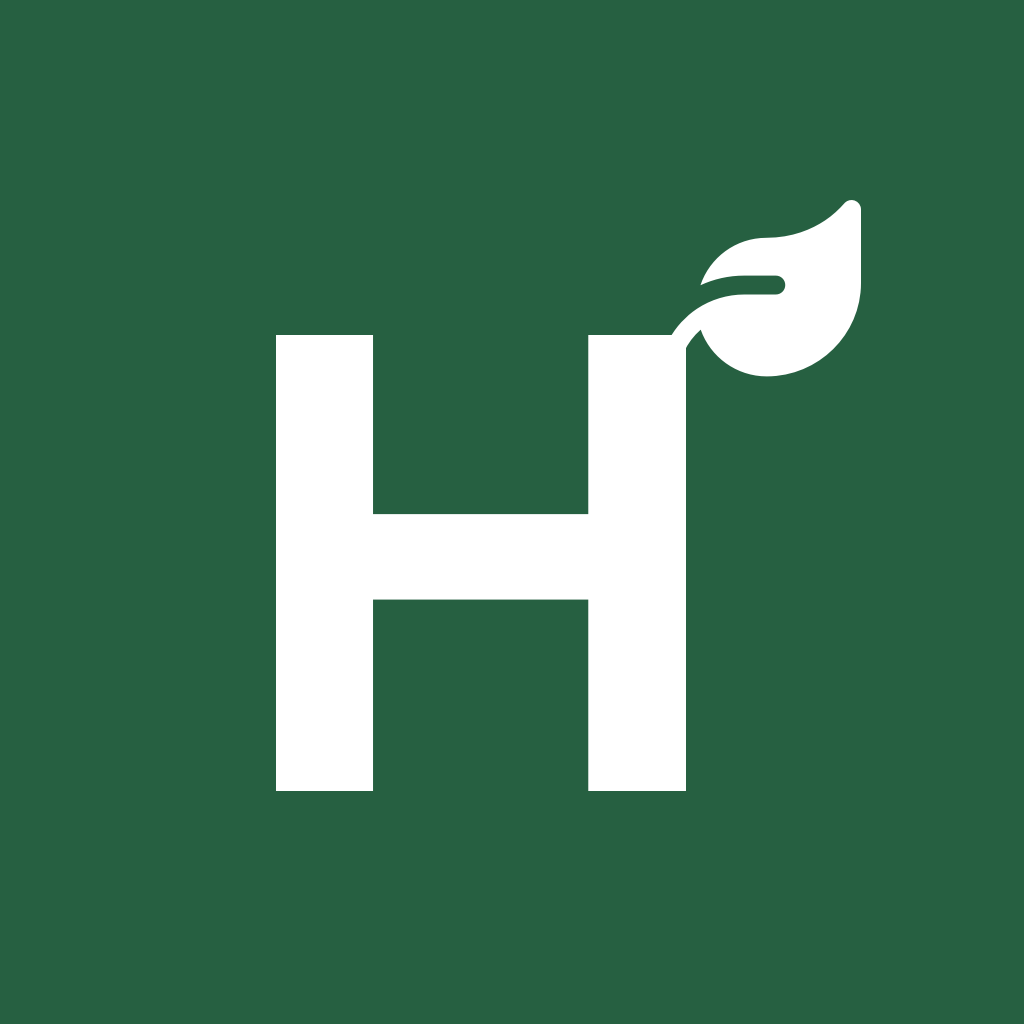
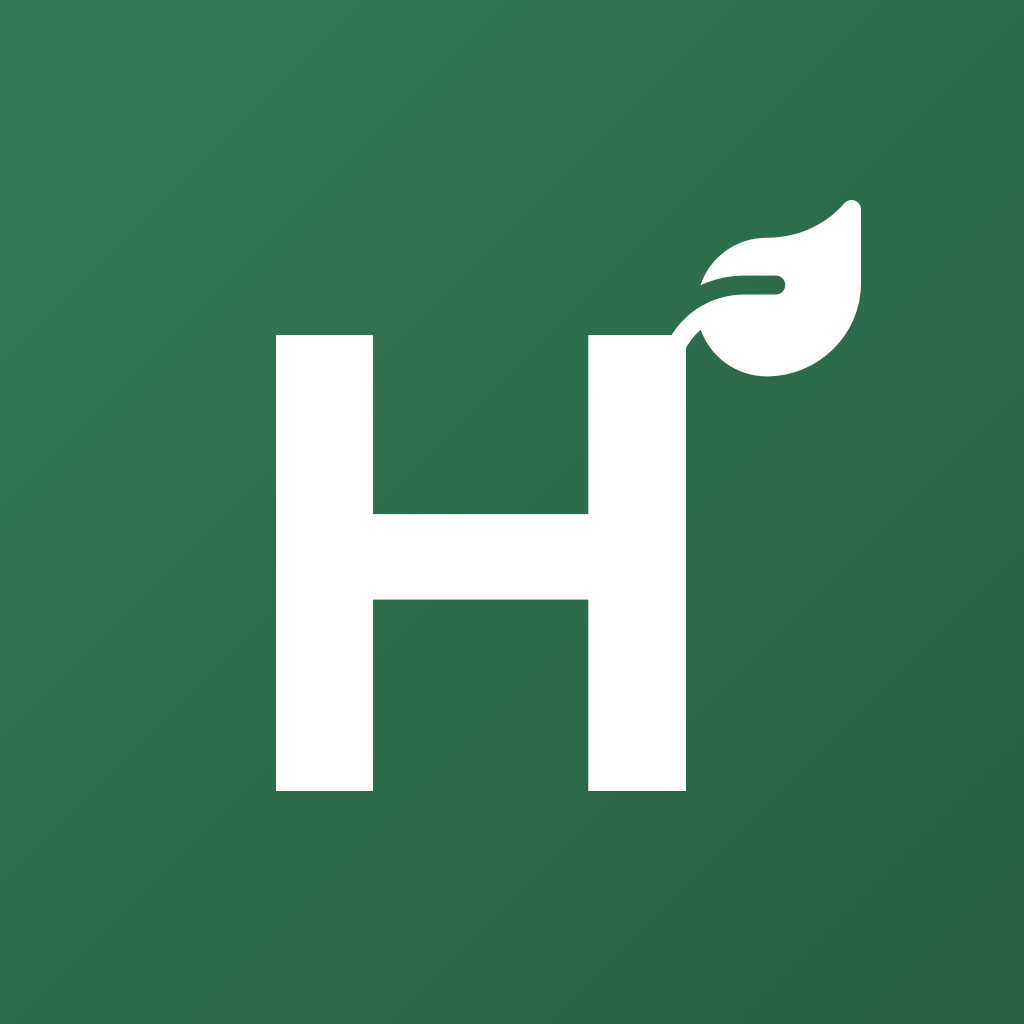
force darkmode and qr code button

Changed region(s): [[0.0, 0.0, 0.125, 0.125]]

diff --git a/app/_layout.tsx b/app/_layout.tsx
@@ -1,6 +1,6 @@
 import { DefaultTheme, ThemeProvider } from "@react-navigation/native";
 import { useFonts } from "expo-font";
-import { Stack } from "expo-router";
+import { router, Stack } from "expo-router";
 import { StatusBar } from "expo-status-bar";
 import "react-native-reanimated";
 
@@ -15,7 +15,9 @@ import "../global.css";
 
 import { Colors } from "@/constants/Colors";
 import { toastConfig } from '@/toast.config';
+import { HeaderButton } from "@react-navigation/elements";
 import React from "react";
+import { QrCodeIcon } from "react-native-heroicons/solid";
 import Toast from 'react-native-toast-message';
 
 Sentry.init({
@@ -52,10 +54,9 @@ function RootLayoutNav() {
         screenOptions={{
           headerShown: true,
           headerStyle: { backgroundColor: Colors.harvest },
-          headerTintColor: "#fff",
-          headerTitleStyle: { color: "#fff" },
-          headerBackButtonDisplayMode: "minimal",
 
+          headerTitleStyle: { color: "white" },
+          headerBackButtonDisplayMode: "minimal",
         }}
       >
         <Stack.Screen name="login" />
@@ -70,10 +71,21 @@ function RootLayoutNav() {
         />
         <Stack.Screen
           name="rateSelect"
-          options={{
+          options={() => ({
             title: "Select Rate",
             presentation: "card",
-          }}
+            headerRight: () => (
+              <HeaderButton
+                accessibilityLabel="More options"
+
+                onPress={() =>
+                  router.push({ pathname: "/qrScan" })
+                }
+              >
+                <QrCodeIcon size={22} />
+              </HeaderButton>
+            ),
+          })}
         />
         <Stack.Screen
           name="expenseDetails"

diff --git a/app/rateSelect.tsx b/app/rateSelect.tsx
@@ -1,6 +1,6 @@
 import { router, useLocalSearchParams } from "expo-router";
 import React from "react";
-import { Text, TouchableOpacity, View } from "react-native";
+import { View } from "react-native";
 
 import { useAuth } from "@/components/context/AuthContext";
 import { RatesList } from "@/components/rates/RatesList";
@@ -26,8 +26,8 @@ export default function RateSelectScreen() {
 
   return (
     <View className="flex-1 bg-secondarybg">
-      {/* Header */}
-      <View className="modal-header">
+
+      {/* <View className="modal-header">
         <TouchableOpacity onPress={handleCancel}>
           <Text className="text-base text-white">Cancel</Text>
         </TouchableOpacity>
@@ -39,7 +39,7 @@ export default function RateSelectScreen() {
         >
           <Text className="text-base text-white">QR Scan</Text>
         </TouchableOpacity>
-      </View>
+      </View> */}
 
       {/* Rates List */}
       <RatesList
